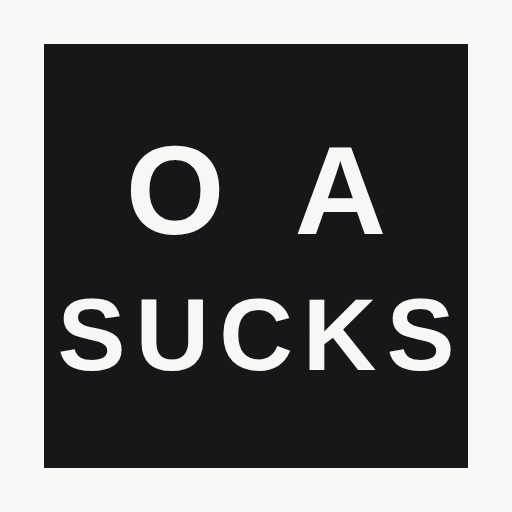
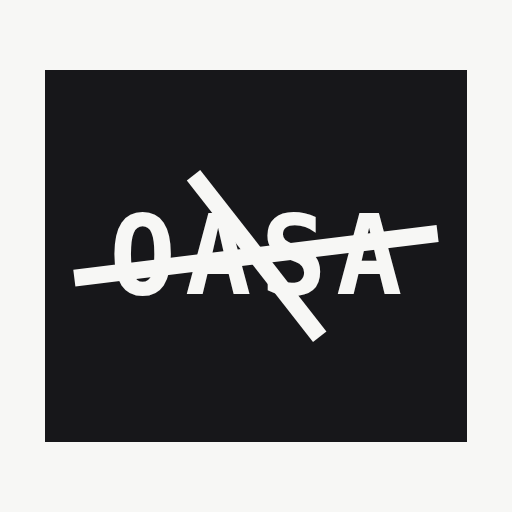
v42: the tile key, and the app is OASAx now
The CARTO key is in, so the "API KEY REQUIRED" watermark goes. It is a
public value that ships in the page, as every browser-side tile key is —
restrict it by domain in CARTO's dashboard rather than treating it as a
secret. The keyless OpenStreetMap fallback stays in place for a clone with
no key of its own.

The name. OASUCKS was a pun carried by a two-line stack — "O A" over
"SUCKS" — and with the pun gone the stack has no job, so the wordmark is
one word. The x is set in the app's single accent colour so it reads as
OASA plus an x rather than a five-letter word, which is also what the mark
does.

The mark keeps the strike it always had and gains a second, shorter stroke
crossing it steeply, so an x sits over the middle of OASA. A true mirror of
the original angle was tried first and does not work: two lines seven
degrees apart read as a doubled strike, not a cross. The steeper stroke is
what makes it legible, and it still reads at 192px, which is the size that
decides whether an icon works.

All three PNGs are regenerated from that same geometry, rendered in a
browser rather than redrawn, so the icon and the header cannot drift apart.
Page title, iOS home-screen name, manifest, push fallback title, About copy
in both languages and the docs all follow.

test/brand.mjs asserts the old name is absent from every shipped file and
the new one present in each place it has to be, since a rename is exactly
[…]

Changed region(s): [[0.125, 0.2812, 0.9062, 0.75], [0.0625, 0.8438, 0.9375, 0.9375], [0.0625, 0.0625, 0.9375, 0.1562]]

diff --git a/public/index.html b/public/index.html
@@ -1,5 +1,5 @@
 <!DOCTYPE html>
-<!-- OASUCKS · Copyright (C) 2026 OASUCKS contributors
+<!-- OASAx · Copyright (C) 2026 OASAx contributors
      SPDX-License-Identifier: AGPL-3.0-or-later
      Complete source available on request: oasax@proton.me -->
 <html lang="el">
@@ -7,13 +7,13 @@
 <meta charset="utf-8" />
 <meta name="viewport" content="width=device-width, initial-scale=1, viewport-fit=cover" />
 <meta name="theme-color" content="#F7F7F5" />
-<title>OASUCKS · Live arrivals</title>
+<title>OASAx · Live arrivals</title>
 <link rel="manifest" href="manifest.webmanifest" />
 <!-- iOS reads these, not (only) the manifest -->
 <link rel="apple-touch-icon" href="icon-192.png" />
 <meta name="apple-mobile-web-app-capable" content="yes" />
 <meta name="apple-mobile-web-app-status-bar-style" content="default" />
-<meta name="apple-mobile-web-app-title" content="OASUCKS" />
+<meta name="apple-mobile-web-app-title" content="OASAx" />
 <!-- Leaflet is self-hosted (was cdnjs): same-origin, so no third-party
      code path to compromise, no SRI hash to break, and it works offline. -->
 <link rel="stylesheet" href="vendor/leaflet-1.9.4.min.css" />
@@ -63,12 +63,20 @@
   .brand{display:flex;align-items:center;gap:9px}
   .mark{background:var(--toner);color:var(--paper);padding:5px 7px;font-weight:700;
     font-size:12px;letter-spacing:.1em;flex:none;position:relative}
+  /* The strike that was always here, plus its mirror: shorter, centred, so
+     the two of them read as an x struck through the middle of OASA. */
   .mark::after{content:"";position:absolute;left:3px;right:3px;top:50%;height:2px;
     background:var(--paper);transform:translateY(-1px) rotate(-7deg)}
-  .wordmark{display:flex;flex-direction:column;align-items:center;margin:0;line-height:.96;
+  .mark::before{content:"";position:absolute;left:50%;width:22px;margin-left:-11px;
+    top:50%;height:2px;background:var(--paper);transform:translateY(-1px) rotate(52deg)}
+  /* One word now, so the two-line stack that made the old pun work is gone.
+     Everything else about it is the same: mono, bold, uppercase, tracked. */
+  .wordmark{display:flex;align-items:baseline;margin:0;line-height:1;
     text-transform:uppercase;font-weight:700}
-  .wordmark span:first-child{font-size:12.5px;letter-spacing:.42em;text-indent:.42em}
-  .wordmark span:last-child{font-size:15px;letter-spacing:.06em}
+  .wordmark .w-oasa{font-size:16px;letter-spacing:.11em;text-indent:.11em}
+  /* the x is set apart the way it is in the mark, one size down and struck
+     in the app's single accent colour */
+  .wordmark .w-x{font-size:16px;letter-spacing:0;color:var(--marker2);margin-left:-.06em}
   .brand .spacer{flex:1}
   .iconbtn{width:30px;height:30px;border:1px solid var(--rule);background:var(--card);
     color:var(--toner);font-size:13px;cursor:pointer;display:grid;place-items:center;
@@ -592,7 +600,7 @@
   <header>
     <div class="brand">
       <div class="mark">OASA</div>
-      <h1 class="wordmark"><span>O A</span><span>SUCKS</span></h1>
+      <h1 class="wordmark"><span class="w-oasa">OASA</span><span class="w-x">x</span></h1>
       <div class="spacer"></div>
       <button class="iconbtn alert" id="reportbtn" aria-label="live reports"><span class="livedot"></span><span class="badge" id="repcount" style="display:none">0</span></button>
       <button class="iconbtn" id="bell">🔔<span class="badge" id="bellcount" style="display:none">0</span></button>
@@ -631,7 +639,7 @@
 
   <main id="list"><div class="msg" id="boot">Εντοπισμός κοντινών στάσεων…</div></main>
   <button class="wake" id="wake">↻ <span id="wake-t"></span></button>
-  <div class="foot"><span class="ver">v41</span></div>
+  <div class="foot"><span class="ver">v42</span></div>
 </div>
 
 <div class="sheet-bg" id="sheetbg"><div class="sheet">
@@ -895,7 +903,7 @@ const T={
   liveCount:n=>`${n} λεωφορεία σε κίνηση`, liveNone:"Κανένα λεωφορείο σε κίνηση εδώ.",
   liveHint:"Δείχνει τα λεωφορεία των γραμμών γύρω από το κέντρο του χάρτη. Μετακίνησε τον χάρτη και πάτα ↻.",
   aboutH:"Σχετικά", srcLink:"Πηγαίος κώδικας (AGPL v3): διατίθεται κατόπιν αιτήματος",
-  aboutBody:`<p><b>OASUCKS</b> δείχνει ζωντανές αφίξεις λεωφορείων και τρόλεϊ για τις στάσεις
+  aboutBody:`<p><b>OASAx</b> δείχνει ζωντανές αφίξεις λεωφορείων και τρόλεϊ για τις στάσεις
     γύρω σου, με δεδομένα από το ανεπίσημο API τηλεματικής του ΟΑΣΑ.</p>
     <p><b>Ζωντανές αναφορές.</b> Μια κοινή εικόνα του τι συμβαίνει τώρα στο δίκτυο, από τους
     ίδιους τους επιβάτες. Δύο κατηγορίες:</p>
@@ -1006,7 +1014,7 @@ const T={
   liveCount:n=>`${n} buses running`, liveNone:"No buses running here.",
   liveHint:"Shows buses on the lines around the centre of the map. Pan the map and tap ↻.",
   aboutH:"About", srcLink:"Source code (AGPL v3): free on request",
-  aboutBody:`<p><b>OASUCKS</b> shows live bus and trolley arrivals for the stops around you,
+  aboutBody:`<p><b>OASAx</b> shows live bus and trolley arrivals for the stops around you,
     using the unofficial OASA telematics API.</p>
     <p><b>Live reports.</b> A shared picture of what's happening on the network right now, from
     the people on it. Two categories:</p>
@@ -1516,7 +1524,7 @@ function byCode(code){
  * CARTO are also retiring these raster PNG endpoints in favour of vector
  * tiles, so a key buys time rather than settling the question for good.
  */
-const TILE_KEY="";
+const TILE_KEY="cb1_2zw8_1_69e54b3a1b17086aafdedb75";
 const CARTO_LIGHT="https://{s}.basemaps.cartocdn.com/light_all/{z}/{x}/{y}{r}.png";
 const CARTO_DARK="https://{s}.basemaps.cartocdn.com/dark_all/{z}/{x}/{y}{r}.png";
 const OSM_TILES="https://tile.openstreetmap.org/{z}/{x}/{y}.png";
@@ -3658,7 +3666,7 @@ function openAbout(){
     <p style="margin-top:14px"><a href="./legal.html#terms">${esc(t("openTerms"))}</a>
       · <a href="./legal.html#privacy">${esc(t("openPrivacy"))}</a></p>
     <p><a href="mailto:oasax@proton.me?subject=Source">${esc(t("srcLink"))}</a></p>
-    <p class="ver" style="letter-spacing:.1em;margin-top:10px">OASUCKS · v41</p></div>`;
+    <p class="ver" style="letter-spacing:.1em;margin-top:10px">OASAx · v42</p></div>`;
   $("#aboutbg").classList.add("on");
 }
 function closeAbout(){ $("#aboutbg").classList.remove("on"); }

diff --git a/public/legal.html b/public/legal.html
@@ -4,7 +4,7 @@
 <meta charset="utf-8" />
 <meta name="viewport" content="width=device-width, initial-scale=1, viewport-fit=cover" />
 <meta name="theme-color" content="#F7F7F5" />
-<title>OASUCKS · Όροι &amp; απόρρητο</title>
+<title>OASAx · Όροι &amp; απόρρητο</title>
 <link rel="apple-touch-icon" href="icon-192.png" />
 <style>
   :root{
@@ -43,7 +43,7 @@
 <body>
 <div class="wrap">
   <header>
-    <a class="back" href="./">← OASUCKS</a>
+    <a class="back" href="./">← OASAx</a>
     <h1>Όροι &amp; απόρρητο · Terms &amp; privacy</h1>
     <div class="sub">04.08.2026</div>
   </header>
@@ -55,7 +55,7 @@
 
   <h2>Terms</h2>
 
-  <p><strong>Unofficial.</strong> OASUCKS is a free, non-commercial app. It is not
+  <p><strong>Unofficial.</strong> OASAx is a free, non-commercial app. It is not
   affiliated with, endorsed by or connected to OASA, OSY, STASY or any authority.
   Trade marks belong to their owners.</p>
 
@@ -138,7 +138,7 @@
   random token, which is never sent to other users' devices.</p>
 
   <footer>
-    OASUCKS · unofficial · not affiliated with OASA / OSY / STASY<br>
+    OASAx · unofficial · not affiliated with OASA / OSY / STASY<br>
     Transit data © OASA · Map data © OpenStreetMap contributors · Tiles © CARTO<br>
     Source under the <a href="https://www.gnu.org/licenses/agpl-3.0.html">GNU AGPL v3</a>,
     free on request: <a href="mailto:oasax@proton.me?subject=Source">oasax@proton.me</a>.

diff --git a/worker.js b/worker.js
@@ -1,6 +1,6 @@
 /**
- * OASUCKS — Cloudflare Worker backend
- * Copyright (C) 2026 OASUCKS contributors
+ * OASAx — Cloudflare Worker backend
+ * Copyright (C) 2026 OASAx contributors
  * SPDX-License-Identifier: AGPL-3.0-or-later
  *
  * This program is free software: you can redistribute it and/or modify it
@@ -37,7 +37,7 @@
  * them the app still works fully, alerts just report "not configured".
  */
 
-const APP_VERSION = "v41";
+const APP_VERSION = "v42";
 const OASA = "https://telematics.oasa.gr/api/";
 const NOMINATIM = "https://nominatim.openstreetmap.org/";
 const UA = "StopArrivals/1.0 (personal transit PWA)";
@@ -1948,7 +1948,7 @@ export default {
       const sub = b && b.sub ? await env.ALERTS.get(`sub:${b.sub}`, "json") : null;
       if (!sub) return json({ error: "unknown subscription" }, 404);
       const status = await sendPush(sub, {
-        title: "OASUCKS ✓", body: "Οι ειδοποιήσεις δουλεύουν.", tag: "test", url: "./",
+        title: "OASAx ✓", body: "Οι ειδοποιήσεις δουλεύουν.", tag: "test", url: "./",
       }, env);
       return json({ ok: status < 300, status });
     }

diff --git a/public/sw.js b/public/sw.js
@@ -8,7 +8,7 @@
  * anything with a query string, anything cross-origin) goes to the network
  * every time. New endpoints are safe by default.
  */
-const SHELL = "stop-shell-v31";
+const SHELL = "stop-shell-v32";
 const ASSETS = ["./", "./index.html", "./manifest.webmanifest",
   "./vendor/leaflet-1.9.4.min.css", "./vendor/leaflet-1.9.4.min.js"];
 // self-hosted, version-pinned vendor .js is now cacheable too (the app's
@@ -69,8 +69,8 @@ self.addEventListener("fetch", e => {
 self.addEventListener("push", e => {
   let d = {};
   try { d = e.data ? e.data.json() : {}; }
-  catch { d = { title: "OASUCKS", body: e.data ? e.data.text() : "" }; }
-  e.waitUntil(self.registration.showNotification(d.title || "OASUCKS", {
+  catch { d = { title: "OASAx", body: e.data ? e.data.text() : "" }; }
+  e.waitUntil(self.registration.showNotification(d.title || "OASAx", {
     body: d.body || "",
     icon: "./icon-192.png",
     badge: "./icon-192.png",

diff --git a/DEPLOY.md b/DEPLOY.md
@@ -29,13 +29,13 @@ You should see something like `v20.x` or `v22.x`.
 Clone the repo (needs Git — https://git-scm.com — or use GitHub Desktop / "Download ZIP"
 from the repo page):
 ```powershell
-git clone <your-repo-url> oasucks
-cd oasucks
+git clone <your-repo-url> oasax
+cd oasax
 ```
 
 ## 2. Open a terminal *in that folder*
 
-If you cloned from the command line you're already there. Otherwise open the `oasucks`
+If you cloned from the command line you're already there. Otherwise open the `oasax`
 folder in VS Code → Terminal → New Terminal, or Shift + right-click the folder →
 **"Open PowerShell window here"**.
 
@@ -121,7 +121,7 @@ no key but are a donated service meant for small projects.
 - **`npx wrangler deploy` complains about account/auth:** run `npx wrangler login` again.
 - **Nothing loads on the phone but the `/api?...` URL returns JSON:** hard-refresh (pull
   down in Chrome) — the old service-worker shell may be cached. You can also bump
-  `SHELL = "stop-shell-v31"` to `v32` in `public/sw.js` and redeploy to force an update.
+  `SHELL = "stop-shell-v32"` to `v33` in `public/sw.js` and redeploy to force an update.
 
 ---
 

diff --git a/README.md b/README.md
@@ -1,9 +1,9 @@
-# OASUCKS — live OASA arrivals & community reports
+# OASAx — live OASA arrivals & community reports
 
 A clean, fast web/mobile view of live bus & trolley arrivals for the stops nearest you,
 built on the unofficial OASA telematics API. One Cloudflare Worker serves the whole
 app and proxies the API. Installs on Android and iOS like a native app. **Current
-version: v41.**
+version: v42.**
 
 **The top bar** is three buttons — live reports (the red dot), alerts 🔔, and a ☰ menu
 holding [look up a line](#search--lines-and-stops), **Settings** (language, and whether

diff --git a/TERMS.md b/TERMS.md
@@ -5,9 +5,9 @@
 > Not legal advice. This mirrors the in-app text at `public/legal.html` — change
 > both together.
 
-By using OASUCKS you agree to the following.
+By using OASAx you agree to the following.
 
-**Unofficial.** OASUCKS is a free, non-commercial app. It is not affiliated with,
+**Unofficial.** OASAx is a free, non-commercial app. It is not affiliated with,
 endorsed by or connected to OASA, OSY, STASY or any authority. Trade marks belong
 to their owners.
 

diff --git a/PARAMETERS.md b/PARAMETERS.md
@@ -1,7 +1,7 @@
 # Tunable parameters
 
 Every arbitrary number in the app, in one place, with where it lives and what
-breaks if you change it. Values here are the **v41 defaults** — if you edit the
+breaks if you change it. Values here are the **v42 defaults** — if you edit the
 source, edit this table too.
 
 Two files hold almost everything: **`public/index.html`** (the app) and
